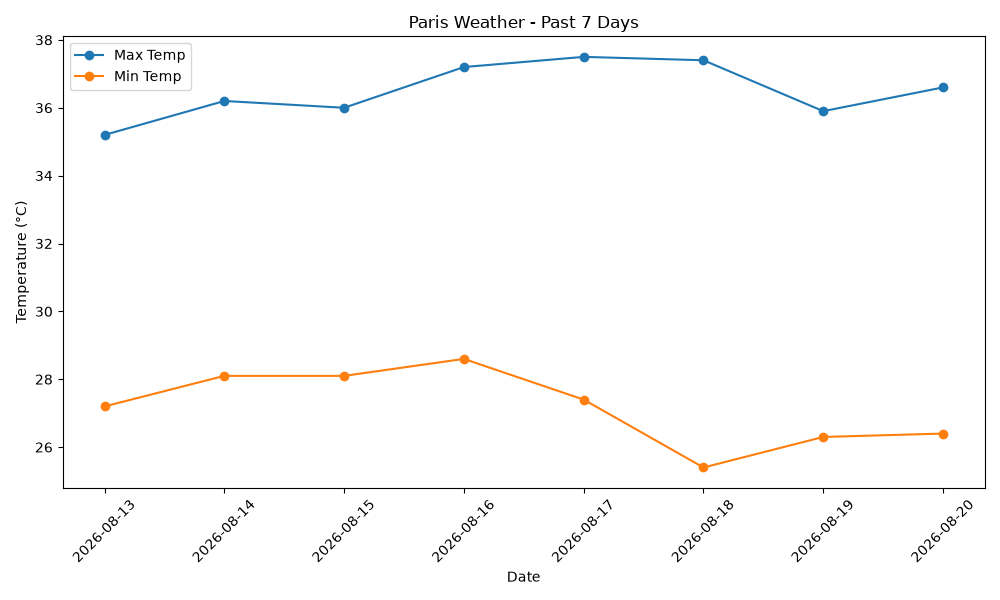
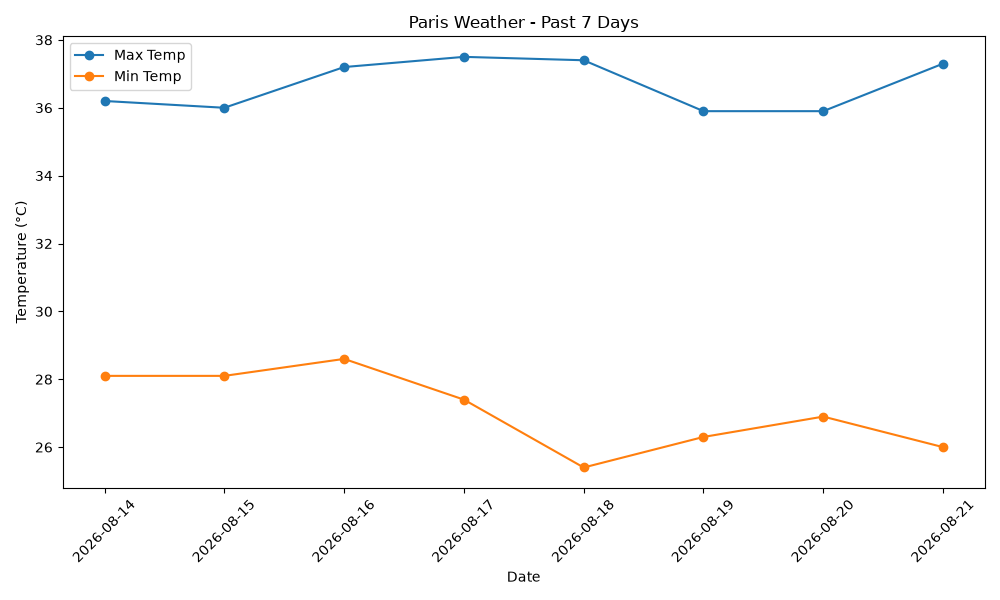
made changes

diff --git a/hello.py b/hello.py
@@ -1,7 +1,7 @@
-import requests
 from datetime import datetime, timedelta
-import pandas as pd
 
+import pandas as pd
+import requests
 
 # Calculate dates
 today = datetime.now()
@@ -19,20 +19,20 @@ data = response.json()
 print(data)
 
 
-
-
 # Extract the daily data
-daily_data = data['daily']
+daily_data = data["daily"]
 
 # Create a DataFrame
-df = pd.DataFrame({
-    'date': daily_data['time'],
-    'max_temp': daily_data['temperature_2m_max'],
-    'min_temp': daily_data['temperature_2m_min']
-})
+df = pd.DataFrame(
+    {
+        "date": daily_data["time"],
+        "max_temp": daily_data["temperature_2m_max"],
+        "min_temp": daily_data["temperature_2m_min"],
+    }
+)
 
 # Convert date strings to datetime
-df['date'] = pd.to_datetime(df['date'])
+df["date"] = pd.to_datetime(df["date"])
 
 print(df)
 
@@ -41,13 +41,13 @@ import matplotlib.pyplot as plt
 
 # Create the plot
 plt.figure(figsize=(10, 6))
-plt.plot(df['date'], df['max_temp'], marker='o', label='Max Temp')
-plt.plot(df['date'], df['min_temp'], marker='o', label='Min Temp')
+plt.plot(df["date"], df["max_temp"], marker="o", label="Max Temp")
+plt.plot(df["date"], df["min_temp"], marker="o", label="Min Temp")
 
 # Add labels and title
-plt.xlabel('Date')
-plt.ylabel('Temperature (°C)')
-plt.title('Paris Weather - Past 7 Days')
+plt.xlabel("Date")
+plt.ylabel("Temperature (°C)")
+plt.title("Paris Weather - Past 7 Days")
 plt.legend()
 
 # Rotate x-axis labels for readability
@@ -55,17 +55,16 @@ plt.xticks(rotation=45)
 plt.tight_layout()
 
 # Save the plot
-plt.savefig('weather_chart.png')
+plt.savefig("weather_chart.png")
 plt.show()
-
 
 
 import os
 
 # Create data folder if it doesn't exist
-if not os.path.exists('data'):
-    os.makedirs('data')
+if not os.path.exists("data"):
+    os.makedirs("data")
 
 # Save to CSV
-df.to_csv('data/paris_weather.csv', index=False)
+df.to_csv("data/paris_weather.csv", index=False)
 print("Data saved to data/paris_weather.csv")
